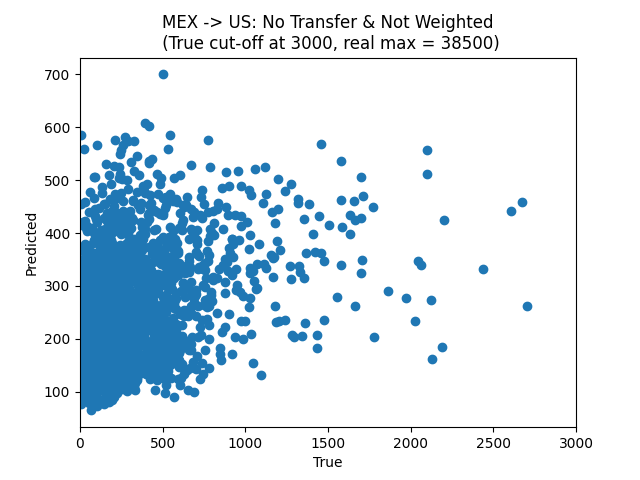
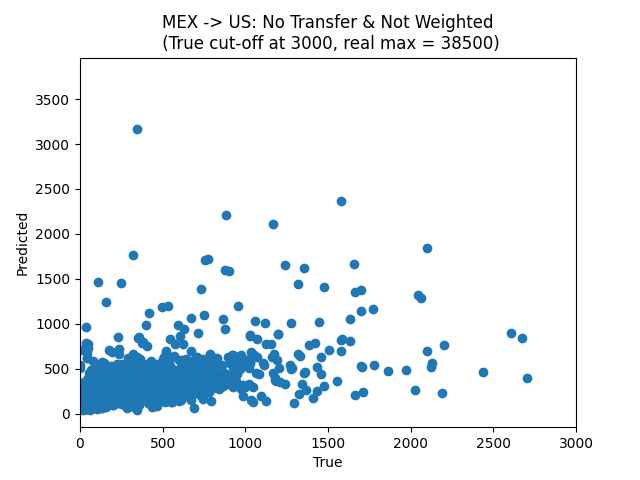
fixed average age variables

diff --git a/README.md b/README.md
@@ -7,8 +7,8 @@
 
 | Transfer |  Loss Function	|     MAE	  |      r2       |	 Quantity Error	 |  Allocation Error  |
 |----------|----------------|-------------|---------------|------------------|--------------------|
-|   No	   |     Normal	    | 206.9039011 |	0.1518472024  |	  142023.9463	 |    340269.0472     |
-|   No	   |    Weighted	| 127.3214092 |	0.6911772378  |	  13668.5718	 |    283117.6331     |
+|    No	   |     Normal	    | 178.393243  |	0.385948569   |	  43710.55093	 |    372124.0986     |
+|    No	   |    Weighted	| 116.603107  |	0.7292429568  |	  13758.47808	 |    258043.3642     |
 
 
 ### Model Plots
